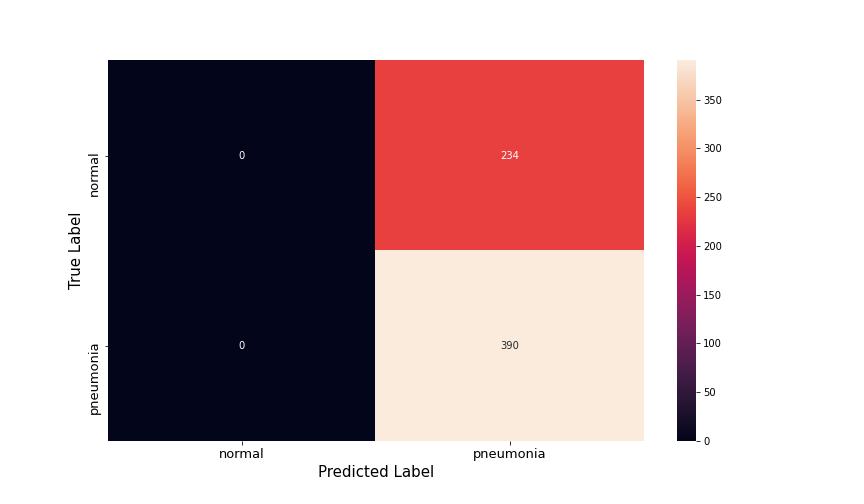
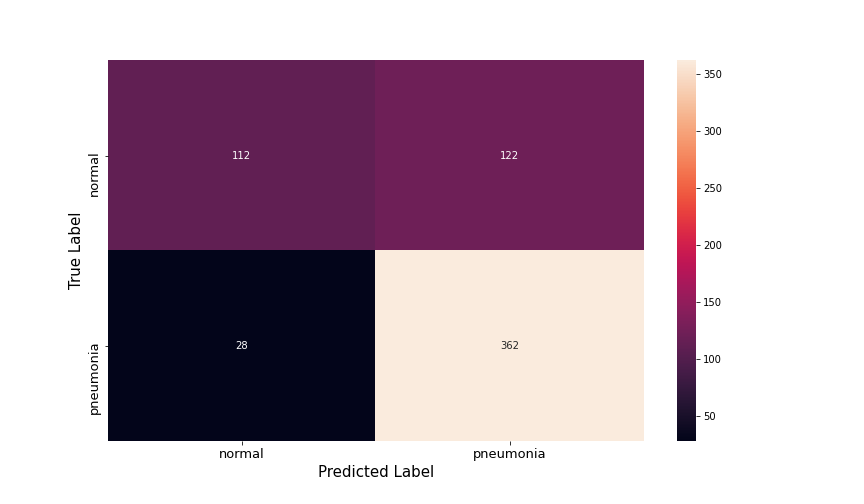
model 2 matrix update

diff --git a/README.md b/README.md
@@ -19,6 +19,7 @@ According to the MayoClinic (link above), "Pneumonia is an infection that inflam
 
 ![model1](images/model1cm.png)
 
+Model 2 has 112 true normal images, 362 true pneumonia images, 28 false negatives (patient has pneumonia and the model didn't catch it), and 122 false positives (patient does not have pneumonia but the model says they are ill).
 ![model2](images/model2cm.png)
 
 Model 3 has 112 true normal images, 379 true pneumonia images, 11 false negatives (patient has pneumonia and the model didn't catch it), and 122 false positives (patient does not have pneumonia but the model says they are ill).
